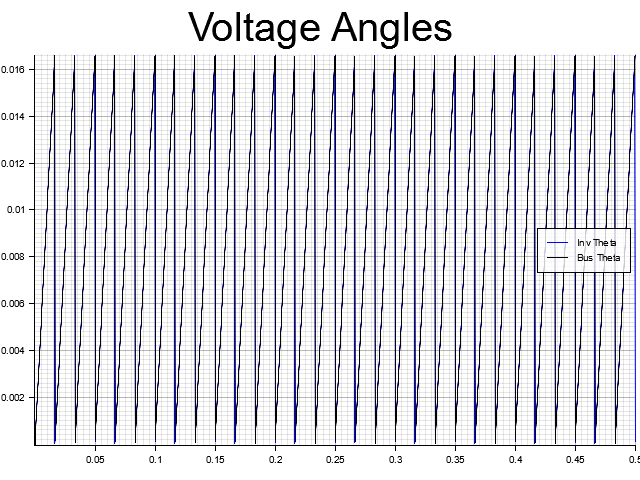
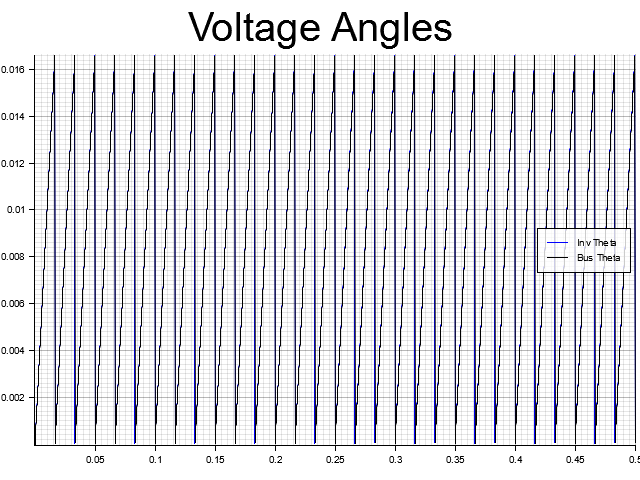
Implement floating-point only sim

Changed region(s): [[0.0625, 0.1562, 1.0, 0.8438], [0.8438, 0.1562, 0.9062, 0.4688], [0.9375, 0.2188, 1.0, 0.5]]

diff --git a/src/main.rs b/src/main.rs
@@ -1,21 +1,12 @@
 // #![no_std]
 
 use std::*;
-use fixed::traits::LossyInto;
 use plotters::prelude::*;
 use unifi_gfm::calc::*;
 use unifi_gfm::dvoc::*;
 use unifi_gfm::refs::*;
 use unifi_gfm::sims::*;
 use unifi_gfm::constants::*;
-use fixed::traits::FromFixed;
-type FxdSim = fixed::types::I38F26;
-type FxdNum = fixed::types::I38F26; // TODO: Test with 32-bit fixed-point number and figure out what is overflowing (Seems to be related to current dynamics)
-// TODO: Test how fast this runs with the package having a single fixed-point value selected (No / fewer conversions to fixed). 
-// Currently running this sim with I32F32 values takes ~20s
-
-// NOTE:    A 26-bit fractional seems to be the minimal number that results in fairly accurate power tracking / smaller oscillations at steady-state.
-//          Oscillations seem to be due to lossy conversions in the simulation, and power tracking errors are due to inaccuracies in current dynamics.
 
 const VOLTAGE_FILE_NAME: &'static str = "images/dvoc_sim_voltage.png";
 const THETA_FILE_NAME: &'static str = "images/dvoc_sim_thetas.png";
@@ -23,30 +14,27 @@ const POWER_OUT_FILE_NAME: &'static str = "images/dvoc_sim_powers.png";
 const CURRENT_OUT_FILE_NAME: &'static str = "images/dvoc_sim_currents.png";
 const DELTA_OUT_FILE_NAME: &'static str = "images/dvoc_sim_deltas.png";
 fn main() -> Result<(), Box<dyn std::error::Error>> {
-    env::set_var("RUST_BACKTRACE", "1");  // Enable backtrace for identifying overflow errors 
-
     /*
     DEFINE SYSTEM PARAMETERS & CONSTRUCT OBJECTS
     */
     let v_nom: f32 = 80.;
     let f_nom: f32 = 60.;
-    let f_nom: f32 = f_nom;
+    let w_nom: f32 = f_nom * 2.*PI;
     let s_rated: f32 = 1000.;
-    let dt: f32 = 2.0e-4_f32;
+    let dt: f32 = 1.0e-4_f32;
     let xi: f32 = 15.;
     let c: f32 = 0.2679;
-    let _pi: f32 = PI.lossy_into();
 
     let z_base = 3. * v_nom * v_nom / s_rated;
 
-    let mut inv = build_dvoc_controller_from_flt::<FxdNum>(v_nom, f_nom, xi, c);
-    inv.x[(1)] = FxdNum::from_num(dt * 0.53);  // Initialize inverter angle leading the grid angle by ~half a cycle to start closer to the digital equalibria
-    inv.x[(0)] = FxdNum::from_num(0.999965);  // Initialize inverter voltage slightly lower than nominal to start closer to the digital equalibria
+    let mut inv = build_dvoc_controller(v_nom, w_nom, xi, c);
+    inv.x[(1)] = dt * 0.53;  // Initialize inverter angle leading the grid angle by ~half a cycle to start closer to the digital equalibria
+    inv.x[(0)] = 0.999965;  // Initialize inverter voltage slightly lower than nominal to start closer to the digital equalibria
 
     let rf = 0.8;
     let lf = 1.5e-3;
-    let mut line: RLFilter<FxdSim> = build_rl_line_from_flt(f_nom, rf / z_base, lf / z_base);
-    let mut bus: ACVoltSrc<FxdSim> = build_ac_volt_src_from_flt(v_nom, f_nom);
+    let mut line: RLFilter<f32> = build_rl_line(f_nom, rf / z_base, lf / z_base);
+    let mut bus: ACVoltSrc<f32> = build_ac_volt_src(v_nom, w_nom);
 
     /*
     RUNNING DYNAMICAL SIMULATION
@@ -56,9 +44,9 @@ fn main() -> Result<(), Box<dyn std::error::Error>> {
     let cont_n_steps = 20;  // Number of steps taken for 'continuous' dynamics for each digital step
     let cont_dt = dt / (cont_n_steps as f32);
     let steps: Vec<u32> = (0..n_steps+1).collect();
-    let mut t: f32; let dt_: FxdNum = FxdNum::from_num(dt); let cont_dt_: FxdSim = FxdSim::from_num(cont_dt);
-    let mut p: FxdSim = FxdSim::from_fixed(ZERO); let mut q: FxdSim = FxdSim::from_fixed(ZERO);
-    let mut delta: f32; let mut i_alpha_sample: FxdNum; let mut i_beta_sample: FxdNum;
+    let mut t: f32;
+    let mut p: f32 = 0.; let mut q: f32 = 0.;
+    let mut delta: f32; let mut i_alpha_sample: f32; let mut i_beta_sample: f32;
     let mut v_values: Vec<(f32, f32)> = vec![(0., 0.); (n_steps+1) as usize];
     let mut theta_values: Vec<(f32, f32)> = vec![(0., 0.); (n_steps+1) as usize];
     let mut vg_values: Vec<(f32, f32)> = vec![(0., 0.); (n_steps+1) as usize];
@@ -71,43 +59,43 @@ fn main() -> Result<(), Box<dyn std::error::Error>> {
     for step in steps {  // TODO: Debug this to see where the overflow occurs...
         t = step as f32 * dt;
         if t > (t_end / 2.) {
-            inv.set_p_ref(FxdNum::from_num(1.0));
+            inv.set_p_ref(1.0);
         }
 
         // Collect voltage values
-        v_values[step as usize] = (t, inv.x[(0)].lossy_into());
-        theta_values[step as usize] = (t, inv.x[(1)].lossy_into());
-        vg_values[step as usize] = (t, bus.x[(0)].lossy_into());
-        thetag_values[step as usize] = (t, bus.x[(1)].lossy_into());
-        ia_values[step as usize] = (t, line.x[(0)].lossy_into());
-        ib_values[step as usize] = (t, line.x[(1)].lossy_into());
-        delta = (inv.x[(1)] - FxdNum::from_fixed(bus.x[(1)])).lossy_into();
+        v_values[step as usize] = (t, inv.x[(0)]);
+        theta_values[step as usize] = (t, inv.x[(1)]);
+        vg_values[step as usize] = (t, bus.x[(0)]);
+        thetag_values[step as usize] = (t, bus.x[(1)]);
+        ia_values[step as usize] = (t, line.x[(0)]);
+        ib_values[step as usize] = (t, line.x[(1)]);
+        delta = inv.x[(1)] - bus.x[(1)];
         if delta > (1. / f_nom) {
             delta = -(1. / f_nom) + delta;
-        } else if delta < -(1. / f_nom - 1.0e-4) {
+        } else if delta < -(1. / f_nom - 5.0e-4) {
             delta = (1. / f_nom) + delta;
         }
         delta_values[step as usize] = (t, delta);
 
         // Sample the current
-        i_alpha_sample = FxdNum::from_fixed(line.x[(0)]);
-        i_beta_sample = FxdNum::from_fixed(line.x[(1)]);
+        i_alpha_sample = line.x[(0)];
+        i_beta_sample = line.x[(1)];
 
         // Step the system
         for n in 0..cont_n_steps {
             // Calculate power
-            let v = AlphaBeta::from_polar(FxdSim::from_fixed(inv.x[(0)]), FxdSim::from_fixed(inv.x[(1)] * inv.w_nom));
-            let i = AlphaBeta::<FxdSim>::from_ab_(line.x[(0)], line.x[(1)]);
+            let v = AlphaBeta::from_polar(inv.x[(0)], inv.x[(1)] * inv.w_nom);
+            let i = AlphaBeta::from_ab_(line.x[(0)], line.x[(1)]);
             (p, q) = calc_ab_power(v, i);
-            p_values[(cont_n_steps*step + n) as usize] = (t + (n as f32)*cont_dt, p.lossy_into());
-            q_values[(cont_n_steps*step + n) as usize] = (t + (n as f32)*cont_dt, q.lossy_into());
-            bus.step_(cont_dt_);
-            line.step(cont_dt_, [FxdSim::from_fixed(inv.x[(0)]), FxdSim::from_fixed(inv.x[(1)] * inv.w_nom), 
+            p_values[(cont_n_steps*step + n) as usize] = (t + (n as f32)*cont_dt, p);
+            q_values[(cont_n_steps*step + n) as usize] = (t + (n as f32)*cont_dt, q);
+            bus.step_(cont_dt);
+            line.step(cont_dt, [inv.x[(0)], inv.x[(1)] * inv.w_nom, 
                                   bus.x[(0)], bus.x[(1)] * bus.w_nom]);
         }
 
         // Step the controller after a z^-1 delay
-        inv.step(dt_, [i_alpha_sample, i_beta_sample]);
+        inv.step(dt, [i_alpha_sample, i_beta_sample]);
     }
     println!("v: {}, theta: {}", inv.x[(0)], inv.x[(1)]);
     println!("ia: {}, ib: {}", line.x[(0)], line.x[(1)]);

diff --git a/src/bin/droop_sim.rs b/src/bin/droop_sim.rs
@@ -1,16 +1,12 @@
 // #![no_std]
 
 use std::*;
-use fixed::traits::LossyInto;
 use plotters::prelude::*;
 use unifi_gfm::calc::*;
 use unifi_gfm::droop::*;
 use unifi_gfm::refs::*;
 use unifi_gfm::sims::*;
 use unifi_gfm::constants::*;
-use fixed::traits::FromFixed;
-type FxdSim = fixed::types::I32F32;
-type FxdNum = fixed::types::I32F32; // TODO: Test with 32-bit fixed-point number and figure out what is overflowing (Seems to be related to current dynamics)
 
 const VOLTAGE_FILE_NAME: &'static str = "images/droop_sim_voltage.png";
 const THETA_FILE_NAME: &'static str = "images/droop_sim_thetas.png";
@@ -25,22 +21,21 @@ fn main() -> Result<(), Box<dyn std::error::Error>> {
     */
     let v_nom: f32 = 80.;
     let f_nom: f32 = 60.;
-    // let pi: f32 = PI.lossy_into();
-    // let w_nom: f32 = f_nom * 2.*pi;
+    let w_nom: f32 = f_nom * 2.*PI;
     let s_rated: f32 = 1000.;
     let z_base = 3. * v_nom * v_nom / s_rated;
     let dt: f32 = 1.0e-4_f32;
     let mp: f32 = 0.0026; // / w_nom;  // Does this coefficient need to be per-unitized?
     let mq: f32 = 0.005; // / v_nom;   // Does this coefficient need to be per-unitized?
-    let f_c: f32 = 30.;  // Does this filter frequency need to be per-unitized?
-    let mut inv = build_droop_controller_from_flt(v_nom, f_nom, mp, mq, f_c);
-    inv.x[(1)] = FxdNum::from_num(dt * 0.53);  // Initialize inverter angle leading the grid angle by ~half a cycle to start closer to the digital equalibria
-    inv.x[(0)] = FxdNum::from_num(0.999965);  // Initialize inverter voltage slightly lower than nominal to start closer to the digital equalibria
+    let w_c: f32 = 30.*2.*PI;  // Does this filter frequency need to be per-unitized?
+    let mut inv = build_droop_controller(v_nom, w_nom, mp, mq, w_c);
+    inv.x[(1)] = dt * 0.53;  // Initialize inverter angle leading the grid angle by ~half a cycle to start closer to the digital equalibria
+    inv.x[(0)] = 0.999965;  // Initialize inverter voltage slightly lower than nominal to start closer to the digital equalibria
 
     let rf = 0.8;
     let lf = 1.5e-3;
-    let mut line: RLFilter<FxdSim> = build_rl_line_from_flt(f_nom, rf / z_base, lf / z_base);
-    let mut bus: ACVoltSrc<FxdSim> = build_ac_volt_src_from_flt(v_nom, f_nom);
+    let mut line: RLFilter<f32> = build_rl_line(f_nom, rf / z_base, lf / z_base);
+    let mut bus: ACVoltSrc<f32> = build_ac_volt_src(v_nom, w_nom);
 
     /*
     RUNNING DYNAMICAL SIMULATION
@@ -50,9 +45,9 @@ fn main() -> Result<(), Box<dyn std::error::Error>> {
     let cont_n_steps = 20;  // Number of steps taken for 'continuous' dynamics for each digital step
     let cont_dt = dt / (cont_n_steps as f32);
     let steps: Vec<u32> = (0..n_steps+1).collect();
-    let mut t: f32; let dt_: FxdNum = FxdNum::from_num(dt); let cont_dt_: FxdSim = FxdSim::from_num(cont_dt);
-    let mut p: FxdSim = FxdSim::from_fixed(ZERO); let mut q: FxdSim = FxdSim::from_fixed(ZERO);
-    let mut delta: f32; let mut i_alpha_sample: FxdNum; let mut i_beta_sample: FxdNum;
+    let mut t: f32;
+    let mut p: f32 = 0.; let mut q: f32 = 0.;
+    let mut delta: f32; let mut i_alpha_sample: f32; let mut i_beta_sample: f32;
     let mut v_values: Vec<(f32, f32)> = vec![(0., 0.); (n_steps+1) as usize];
     let mut theta_values: Vec<(f32, f32)> = vec![(0., 0.); (n_steps+1) as usize];
     let mut vg_values: Vec<(f32, f32)> = vec![(0., 0.); (n_steps+1) as usize];
@@ -62,53 +57,53 @@ fn main() -> Result<(), Box<dyn std::error::Error>> {
     let mut q_values: Vec<(f32, f32)> = vec![(0., 0.); ((n_steps+1)*cont_n_steps) as usize];
     let mut ia_values: Vec<(f32, f32)> = vec![(0., 0.); (n_steps+1) as usize];
     let mut ib_values: Vec<(f32, f32)> = vec![(0., 0.); (n_steps+1) as usize];
-    for step in steps {
+    for step in steps {  // TODO: Debug this to see where the overflow occurs...
         t = step as f32 * dt;
         if t > (t_end / 2.) {
-            inv.set_p_ref(FxdNum::from_num(1.0));
+            inv.set_p_ref(1.0);
         }
 
         // Collect voltage values
-        v_values[step as usize] = (t, inv.x[(0)].lossy_into());
-        theta_values[step as usize] = (t, inv.x[(1)].lossy_into());
-        vg_values[step as usize] = (t, bus.x[(0)].lossy_into());
-        thetag_values[step as usize] = (t, bus.x[(1)].lossy_into());
-        ia_values[step as usize] = (t, line.x[(0)].lossy_into());
-        ib_values[step as usize] = (t, line.x[(1)].lossy_into());
-        delta = (inv.x[(1)] - FxdNum::from_fixed(bus.x[(1)])).lossy_into();
+        v_values[step as usize] = (t, inv.x[(0)]);
+        theta_values[step as usize] = (t, inv.x[(1)]);
+        vg_values[step as usize] = (t, bus.x[(0)]);
+        thetag_values[step as usize] = (t, bus.x[(1)]);
+        ia_values[step as usize] = (t, line.x[(0)]);
+        ib_values[step as usize] = (t, line.x[(1)]);
+        delta = inv.x[(1)] - bus.x[(1)];
         if delta > (1. / f_nom) {
             delta = -(1. / f_nom) + delta;
-        } else if delta < -(1. / f_nom - 1.0e-4) {
+        } else if delta < -(1. / f_nom - 5.0e-4) {
             delta = (1. / f_nom) + delta;
         }
         delta_values[step as usize] = (t, delta);
 
         // Sample the current
-        i_alpha_sample = FxdNum::from_fixed(line.x[(0)]);
-        i_beta_sample = FxdNum::from_fixed(line.x[(1)]);
+        i_alpha_sample = line.x[(0)];
+        i_beta_sample = line.x[(1)];
 
         // Step the system
         for n in 0..cont_n_steps {
             // Calculate power
-            let v = AlphaBeta::from_polar(FxdSim::from_fixed(inv.x[(0)]), FxdSim::from_fixed(inv.x[(1)] * inv.w_nom));
-            let i = AlphaBeta::<FxdSim>::from_ab_(line.x[(0)], line.x[(1)]);
+            let v = AlphaBeta::from_polar(inv.x[(0)], inv.x[(1)] * inv.w_nom);
+            let i = AlphaBeta::from_ab_(line.x[(0)], line.x[(1)]);
             (p, q) = calc_ab_power(v, i);
-            p_values[(cont_n_steps*step + n) as usize] = (t + (n as f32)*cont_dt, p.lossy_into());
-            q_values[(cont_n_steps*step + n) as usize] = (t + (n as f32)*cont_dt, q.lossy_into());
-            bus.step_(cont_dt_);
-            line.step(cont_dt_, [FxdSim::from_fixed(inv.x[(0)]), FxdSim::from_fixed(inv.x[(1)] * inv.w_nom), 
+            p_values[(cont_n_steps*step + n) as usize] = (t + (n as f32)*cont_dt, p);
+            q_values[(cont_n_steps*step + n) as usize] = (t + (n as f32)*cont_dt, q);
+            bus.step_(cont_dt);
+            line.step(cont_dt, [inv.x[(0)], inv.x[(1)] * inv.w_nom, 
                                   bus.x[(0)], bus.x[(1)] * bus.w_nom]);
         }
 
         // Step the controller after a z^-1 delay
-        inv.step(dt_, [i_alpha_sample, i_beta_sample]);
+        inv.step(dt, [i_alpha_sample, i_beta_sample]);
     }
     println!("v: {}, theta: {}", inv.x[(0)], inv.x[(1)]);
     println!("ia: {}, ib: {}", line.x[(0)], line.x[(1)]);
     println!("vg: {}, thetag: {}", bus.x[(0)], bus.x[(1)]);
     println!("p: {}, q: {}", p, q);
 
-    /* 
+    /*
     PLOTTING THE RESULTS
     */
 
